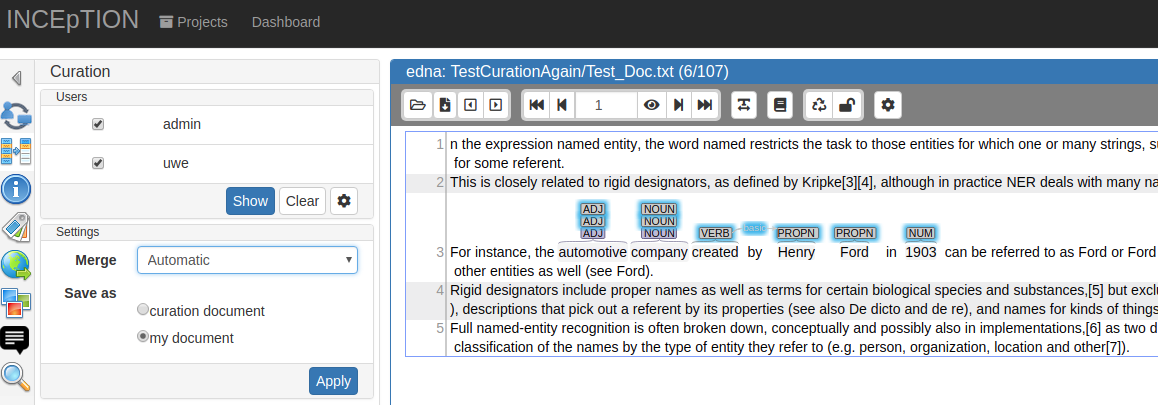
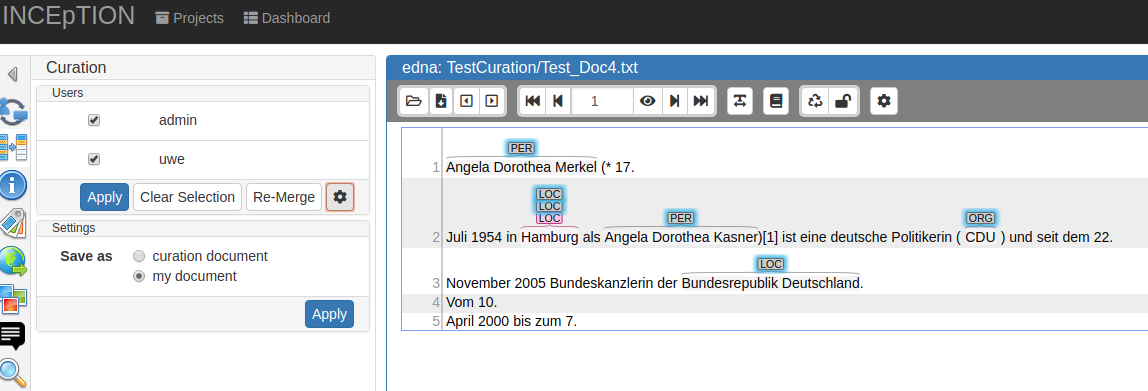
#1256 Integrate curation into annotation page
- automatic merge via additional button
- update doc
- store curationstate for current user not curator

Changed region(s): [[0.0, 0.0, 1.0, 1.0]]

diff --git a/inception-curation/src/main/java/de/tudarmstadt/ukp/inception/curation/sidebar/CurationSidebar.html b/inception-curation/src/main/java/de/tudarmstadt/ukp/inception/curation/sidebar/CurationSidebar.html
@@ -41,8 +41,9 @@
           </table>
           </div>
           <div class="panel-footer text-right">
-              <input wicket:id="merge" class="btn btn-primary" type="submit" wicket:message="value:show"/>
+              <input wicket:id="show" class="btn btn-primary" type="submit" wicket:message="value:apply"/>
               <input wicket:id="clear" class="btn btn-default" type="submit" wicket:message="value:clear"/>
+              <input wicket:id="merge" class="btn btn-default" type="submit" wicket:message="value:merge"/>
               <button wicket:id="toggleOptionsVisibility" type="submit" class="btn btn-default">
                   <i class="fa fa-cog" aria-hidden="true"></i>
                 </button>
@@ -54,14 +55,6 @@
           </div>
           <div class="panel-body form-horizontal">
               <div class="col-sm-12">
-                <div class="form-group">
-                  <label class="control-label col-sm-3">
-                    <wicket:message key="mergeChoice"/>
-                  </label>
-                  <div class="col-sm-9">
-                    <select wicket:id="mergeChoice" class="form-control"></select>
-                  </div>
-                </div>
                 <div class="form-group">
                   <label class="control-label col-sm-3">
                     <wicket:message key=curationTarget/>

diff --git a/inception-curation/src/main/java/de/tudarmstadt/ukp/inception/curation/sidebar/CurationSidebar.java b/inception-curation/src/main/java/de/tudarmstadt/ukp/inception/curation/sidebar/CurationSidebar.java
@@ -31,13 +31,11 @@ import java.util.stream.Collectors;
 import org.apache.uima.cas.CAS;
 import org.apache.wicket.ajax.AjaxRequestTarget;
 import org.apache.wicket.ajax.markup.html.form.AjaxButton;
-import org.apache.wicket.feedback.IFeedback;
 import org.apache.wicket.markup.html.WebMarkupContainer;
 import org.apache.wicket.markup.html.basic.Label;
 import org.apache.wicket.markup.html.form.Check;
 import org.apache.wicket.markup.html.form.CheckGroup;
 import org.apache.wicket.markup.html.form.ChoiceRenderer;
-import org.apache.wicket.markup.html.form.DropDownChoice;
 import org.apache.wicket.markup.html.form.Form;
 import org.apache.wicket.markup.html.list.ListItem;
 import org.apache.wicket.markup.html.list.ListView;
@@ -46,7 +44,6 @@ import org.apache.wicket.model.LoadableDetachableModel;
 import org.apache.wicket.model.Model;
 import org.apache.wicket.model.ResourceModel;
 import org.apache.wicket.model.StringResourceModel;
-import org.apache.wicket.model.util.ListModel;
 import org.apache.wicket.spring.injection.annot.SpringBean;
 import org.apache.wicket.util.value.AttributeMap;
 import org.apache.wicket.util.value.IValueMap;
@@ -72,6 +69,7 @@ import de.tudarmstadt.ukp.clarin.webanno.ui.annotation.AnnotationPage;
 import de.tudarmstadt.ukp.clarin.webanno.ui.annotation.sidebar.AnnotationSidebar_ImplBase;
 import de.tudarmstadt.ukp.inception.curation.CurationService;
 import de.tudarmstadt.ukp.inception.curation.merge.AutomaticMergeStrategy;
+import de.tudarmstadt.ukp.inception.curation.merge.ManualMergeStrategy;
 import de.tudarmstadt.ukp.inception.curation.merge.MergeStrategy;
 
 
@@ -88,13 +86,13 @@ public class CurationSidebar
     private @SpringBean CurationService curationService;
     private @SpringBean DocumentService documentService;
     
-    private @SpringBean List<MergeStrategy> mergeStrategies;
+    private @SpringBean ManualMergeStrategy manualMergeStrat;
+    private @SpringBean AutomaticMergeStrategy autoMergeStrat;
     
     private CheckGroup<User> selectedUsers;
     private Form<List<User>> usersForm;
     private BootstrapRadioChoice<String> curationTargetChoice;
     private WebMarkupContainer mainContainer;
-    private DropDownChoice<MergeStrategy> mergeChoice;
     private ListView<User> users;
     private Label noDocsLabel;
     
@@ -117,7 +115,7 @@ public class CurationSidebar
         usersForm.setOutputMarkupId(true);
         mainContainer.add(usersForm);
         
-        // set up settings form for curation target, merge op selection
+        // set up settings form for curation target
         Form<Void> settingsForm = createSettingsForm("settingsForm");
         settingsForm.setOutputMarkupId(true);
         settingsForm.setVisible(false);
@@ -136,12 +134,9 @@ public class CurationSidebar
     private Form<Void> createSettingsForm(String aId)
     {
         Form<Void> settingsForm = new Form<Void>(aId);
-        LambdaAjaxButton<Void> applyBtn = new LambdaAjaxButton<>("apply", this::merge);
+        LambdaAjaxButton<Void> applyBtn = new LambdaAjaxButton<>("apply", 
+                this::updateForNewCurator);
         settingsForm.add(applyBtn);
-        
-        // set up selection for merge strategy
-        mergeChoice = createMergeDropDownChoice("mergeChoice");
-        settingsForm.add(mergeChoice);
         
         // set up curation target selection as radio button
         List<String> curationTargets = Arrays.asList(
@@ -200,17 +195,6 @@ public class CurationSidebar
         return settingsForm;
     }
     
-    private DropDownChoice<MergeStrategy> createMergeDropDownChoice(String aId)
-    {
-        DropDownChoice<MergeStrategy> mergeChoice = new DropDownChoice<MergeStrategy>(aId,
-                LoadableDetachableModel.of(() -> curationService.retrieveMergeStrategy(
-                        userRepository.getCurrentUser().getUsername(), 
-                        getModelObject().getProject().getId())), 
-                new ListModel<MergeStrategy>(mergeStrategies),
-                new ChoiceRenderer<MergeStrategy>("uiName"));
-        return mergeChoice;
-    }
-    
     @Override
     protected void onConfigure()
     {
@@ -240,9 +224,27 @@ public class CurationSidebar
     private void merge(AjaxRequestTarget aTarget, Form<Void> aForm)
     {
         AnnotatorState state = getModelObject();
-        long project = state.getProject().getId();
-        User curator = userRepository.getCurrentUser();
-        String currentUsername = curator.getUsername();
+        User currentUser = userRepository.getCurrentUser();
+        updateCurator(state, currentUser);
+        // update selected users
+        updateUsers(state);
+        long projectId = state.getProject().getId();
+        Collection<User> users = selectedUsers.getModelObject();
+        curationService.updateMergeStrategy(currentUser.getUsername(), projectId,
+                autoMergeStrat);
+        // if (mergeStrat instanceof AutomaticMergeStrategy) {
+        mergeConfirm.setConfirmAction((target) -> {
+            doMerge(state, state.getUser().getUsername(), users);
+            target.add(annoPage);
+        });
+        mergeConfirm.show(aTarget);
+    }
+
+    private void updateCurator(AnnotatorState aState, User aCurrentUser)
+    {
+        long project = aState.getProject().getId();
+        User curator = aCurrentUser;
+        String currentUsername = aCurrentUser.getUsername();
         // update curation target
         if (curationTargetChoice.getModelObject()
                 .equals(currentUsername)) {
@@ -254,58 +256,29 @@ public class CurationSidebar
             curationService.updateCurationName(currentUsername, project, CURATION_USER);
         }
         
-        state.setUser(curator);
-        state.getSelection().clear();
-        // update selected users
-        long projectId = state.getProject().getId();
-        currentUsername = state.getUser().getUsername();
-        Collection<User> users = selectedUsers.getModelObject();
-        curationService.updateUsersSelectedForCuration(
-                currentUsername, projectId, users);
-        // update selected merge strategy
-        MergeStrategy mergeStrat = ((MergeStrategy) mergeChoice.getDefaultModelObject());
-        if (mergeStrat == null) {
-            aTarget.addChildren(getPage(), IFeedback.class);
-            error("Please choose a strategy for merging.");
-            return;
-        }
-        curationService.updateMergeStrategy(currentUsername, projectId, mergeStrat);
-        // if automatic merge is selected, warn user
-        String curatorName = curator.getUsername();
-        if (mergeStrat instanceof AutomaticMergeStrategy) {
-            mergeConfirm.setConfirmAction(
-                (target) -> {
-                    doMerge(state, curatorName, users);
-                    target.add(annoPage);
-                });
-            mergeConfirm.show(aTarget);
-        }
-        else {
-            doMerge(state, curatorName, users);
-            aTarget.add(mainContainer);
-            //open curation doc
-            annoPage.actionLoadDocument(aTarget);
-        }
+        aState.setUser(curator);
+        aState.getSelection().clear();
     }
 
-    private void doMerge(AnnotatorState state, String aCurator,
+    private void doMerge(AnnotatorState aState, String aCurator,
             Collection<User> aUsers)
     {
         // merge cases
         try {
-            SourceDocument doc = state.getDocument();
+            SourceDocument doc = aState.getDocument();
             Map<String, CAS> userCases = curationService.retrieveUserCases(aUsers, doc);
             Optional<CAS> targetCas = curationService.retrieveCurationCAS(aCurator, 
-                    state.getProject().getId(), doc);
+                    aState.getProject().getId(), doc);
             if (targetCas.isPresent()) {
-                MergeStrategy mergeStrat = ((MergeStrategy) mergeChoice.getDefaultModelObject());
-                mergeStrat.merge(state, targetCas.get(), userCases);
+                MergeStrategy mergeStrat = curationService.retrieveMergeStrategy(
+                        userRepository.getCurrentUser().getUsername(), aState.getProject().getId());
+                mergeStrat.merge(aState, targetCas.get(), userCases);
                 log.debug("{} merge done", mergeStrat.getUiName()); 
             }
         }
         catch (IOException e) {
             log.error(String.format("Could not retrieve CAS for user %s and project %d",
-                        aCurator, state.getProject().getId()));
+                        aCurator, aState.getProject().getId()));
             e.printStackTrace();
         } 
     }
@@ -315,9 +288,11 @@ public class CurationSidebar
         Form<List<User>> usersForm = new Form<List<User>>("usersForm",
                 LoadableDetachableModel.of(this::listSelectedUsers));
         LambdaAjaxButton<Void> clearButton = new LambdaAjaxButton<>("clear", this::clearUsers);
-        LambdaAjaxButton<Void> showButton = new LambdaAjaxButton<>("merge", this::selectAndMerge);
+        LambdaAjaxButton<Void> mergeButton = new LambdaAjaxButton<>("merge", this::merge);
+        LambdaAjaxButton<Void> showButton = new LambdaAjaxButton<>("show", this::selectAndShow);
         usersForm.add(clearButton);
         usersForm.add(showButton);
+        usersForm.add(mergeButton);
         selectedUsers = new CheckGroup<User>("selectedUsers", usersForm.getModelObject());
         users = new ListView<User>("users",
                 LoadableDetachableModel.of(this::listUsers))
@@ -374,20 +349,37 @@ public class CurationSidebar
             return false;
         }
     }
-
-    private void selectAndMerge(AjaxRequestTarget aTarget, Form<Void> aForm) {
-        updateUsers(aTarget, aForm);
-        merge(aTarget, aForm);
-    }
     
-    private void updateUsers(AjaxRequestTarget aTarget, Form<Void> aForm)
-    {
+    private void selectAndShow(AjaxRequestTarget aTarget, Form<Void> aForm) {
+        // switch to manual merge
         AnnotatorState state = getModelObject();
-        Collection<User> users = selectedUsers.getModelObject();
-        curationService.updateUsersSelectedForCuration(
-                state.getUser().getUsername(), state.getProject().getId(), users);
+        curationService.updateMergeStrategy(userRepository.getCurrentUser().getUsername(), 
+                state.getProject().getId(), manualMergeStrat);
+        
+        updateUsers(state);
         aTarget.add(usersForm);
         annoPage.actionRefreshDocument(aTarget);
+    }
+    
+    private void updateForNewCurator(AjaxRequestTarget aTarget, Form<Void> aForm)
+    {
+        // updateCurator and merge strategy
+        AnnotatorState state = getModelObject();
+        User currentUser = userRepository.getCurrentUser();
+        updateCurator(state, currentUser);
+        curationService.updateMergeStrategy(currentUser.getUsername(), 
+                state.getProject().getId(), manualMergeStrat);
+        updateUsers(state);
+        aTarget.add(mainContainer);
+        // open curation doc
+        annoPage.actionLoadDocument(aTarget);
+    }
+    
+    private void updateUsers(AnnotatorState aState)
+    {
+        Collection<User> users = selectedUsers.getModelObject();
+        curationService.updateUsersSelectedForCuration(
+                userRepository.getCurrentUser().getUsername(), aState.getProject().getId(), users);
     }
     
     private void clearUsers(AjaxRequestTarget aTarget, Form<Void> aForm) 
@@ -395,7 +387,7 @@ public class CurationSidebar
         AnnotatorState state = getModelObject();
         selectedUsers.setModelObject(new ArrayList<>());
         curationService.clearUsersSelectedForCuration(
-                state.getUser().getUsername(), state.getProject().getId());
+                userRepository.getCurrentUser().getUsername(), state.getProject().getId());
         aTarget.add(usersForm);
         annoPage.actionRefreshDocument(aTarget);
     }

diff --git a/inception-curation/src/main/java/de/tudarmstadt/ukp/inception/curation/CurationEditorExtension.java b/inception-curation/src/main/java/de/tudarmstadt/ukp/inception/curation/CurationEditorExtension.java
@@ -60,6 +60,7 @@ import de.tudarmstadt.ukp.clarin.webanno.model.AnnotationFeature;
 import de.tudarmstadt.ukp.clarin.webanno.model.AnnotationLayer;
 import de.tudarmstadt.ukp.clarin.webanno.model.Mode;
 import de.tudarmstadt.ukp.clarin.webanno.model.SourceDocument;
+import de.tudarmstadt.ukp.clarin.webanno.security.UserDao;
 import de.tudarmstadt.ukp.clarin.webanno.security.model.User;
 
 @Component(CurationEditorExtension.EXTENSION_ID)
@@ -79,6 +80,7 @@ public class CurationEditorExtension
     private @Autowired PreRenderer preRenderer;
     private @Autowired AnnotationSchemaService annotationService;
     private @Autowired DocumentService documentService;
+    private @Autowired UserDao userRepository;
     
     @Override
     public String getBeanName()
@@ -203,10 +205,10 @@ public class CurationEditorExtension
             return;
         }
         
-        String currentUser = aState.getUser().getUsername();
         long projectId = aState.getProject().getId();
         Optional<List<User>> selectedUsers = curationService
-                .listUsersSelectedForCuration(currentUser, projectId);
+                .listUsersSelectedForCuration(userRepository.getCurrentUser().getUsername(), 
+                        projectId);
         if (!selectedUsers.isPresent()) {
             return;
         }

diff --git a/inception-curation/src/main/java/de/tudarmstadt/ukp/inception/curation/merge/AutomaticMergeStrategy.java b/inception-curation/src/main/java/de/tudarmstadt/ukp/inception/curation/merge/AutomaticMergeStrategy.java
@@ -43,7 +43,7 @@ import de.tudarmstadt.ukp.clarin.webanno.ui.curation.component.model.SuggestionB
 import de.tudarmstadt.ukp.inception.curation.CurationService;
 
 
-@Component("automaticStartegy")
+@Component("automaticStrategy")
 public class AutomaticMergeStrategy
     implements MergeStrategy
 {
